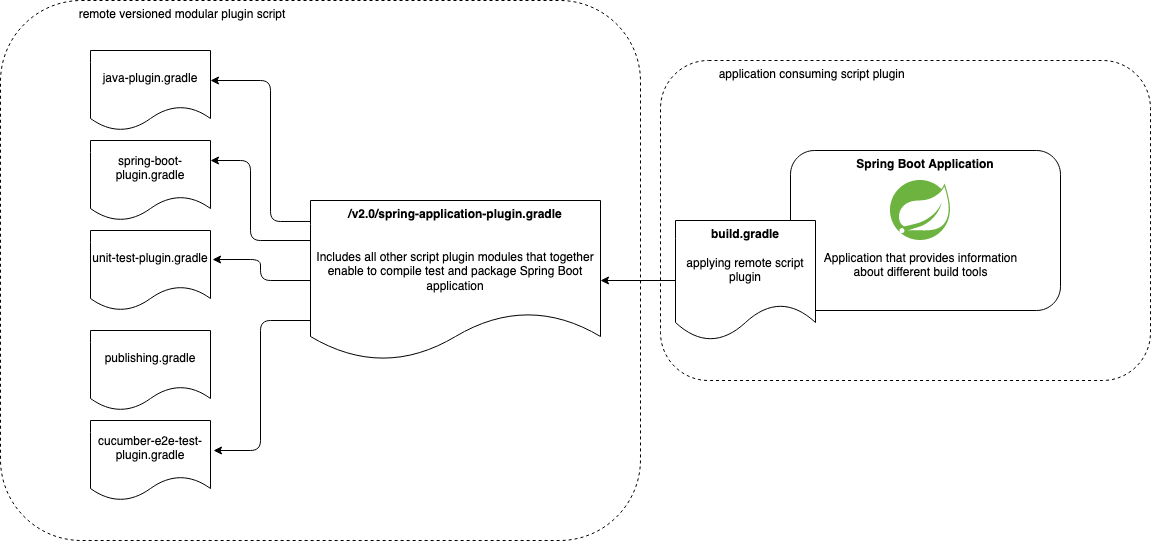
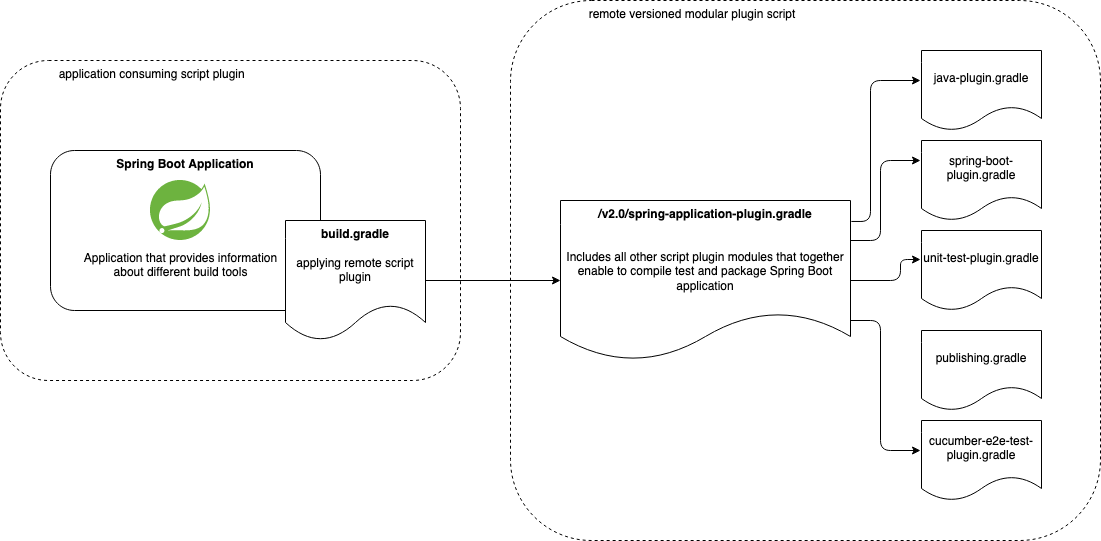
Change diagram direction

diff --git a/script-plugin/remote-versioned-modular-script-plugin-application/README.md b/script-plugin/remote-versioned-modular-script-plugin-application/README.md
@@ -24,7 +24,6 @@ other standalone plugins.
   <img src="readme-content/remote-versioned-modular-plugin-application.png" alt="Application applying remote modular script plugin" width="1151">
 </p>
 
-
 ## Application functionality
 
 This is a tiny Spring Boot project that uses Thymeleaf as rendering engine.
@@ -47,11 +46,6 @@ After application is started it will be available under http://localhost:8080/.
   <img src="readme-content/modular-selected-build-tool.png" alt="Build Tool Selected" width="500px">
 </p>
 
-   
 Requirements:
 - Application compilation -> Java15
 - Executing E2E tests -> Chrome Webdriver path specified under [webdriver.chrome.driver]. Check [application.properties](src/cucumberE2eTest/resources/application.properties)
-
-## TODO Gradle script plugin application
-
-Explain + Diagram
